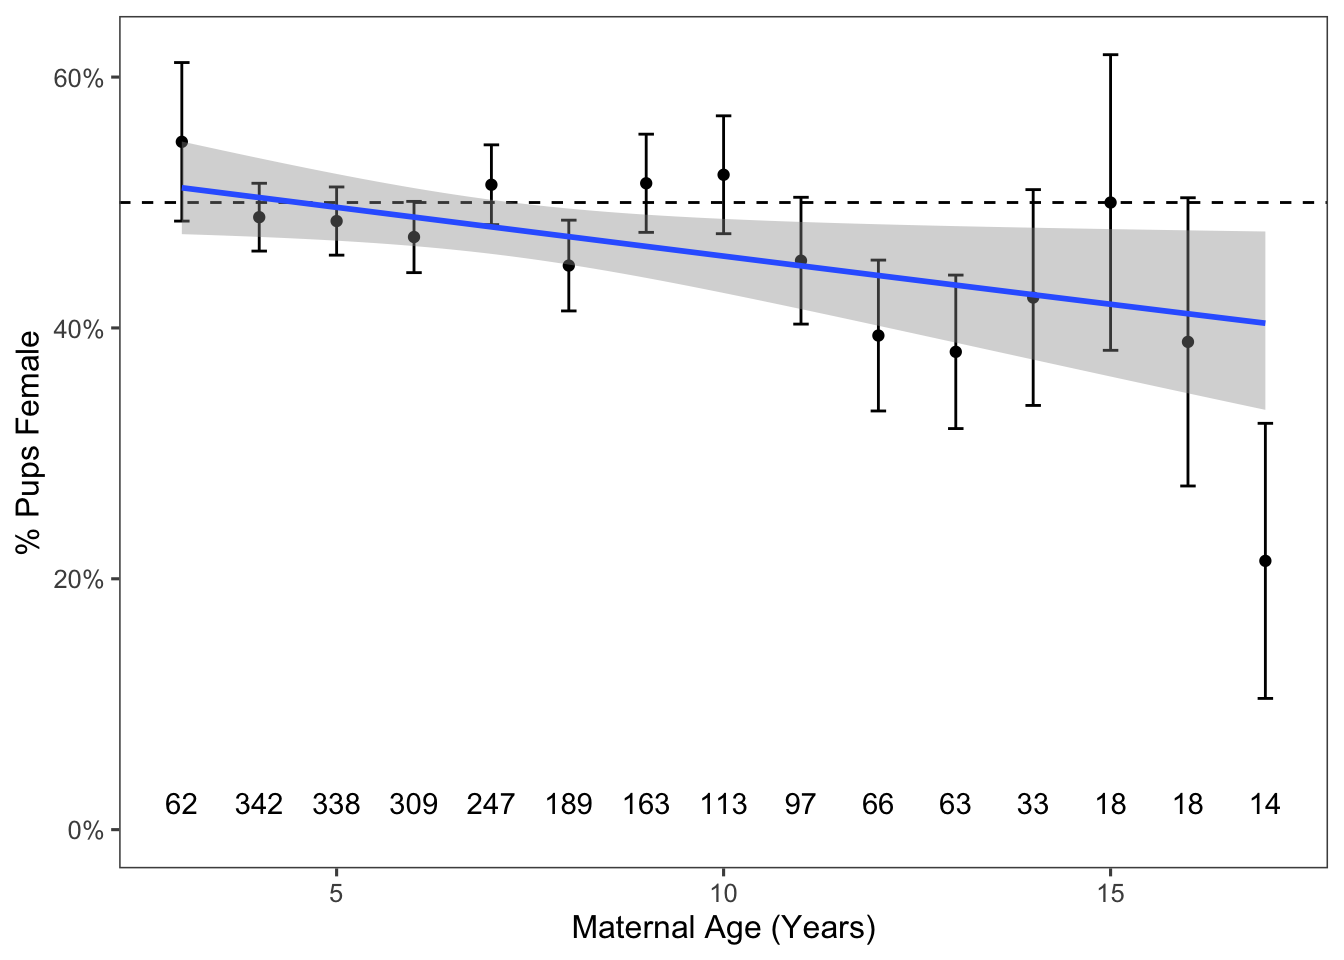
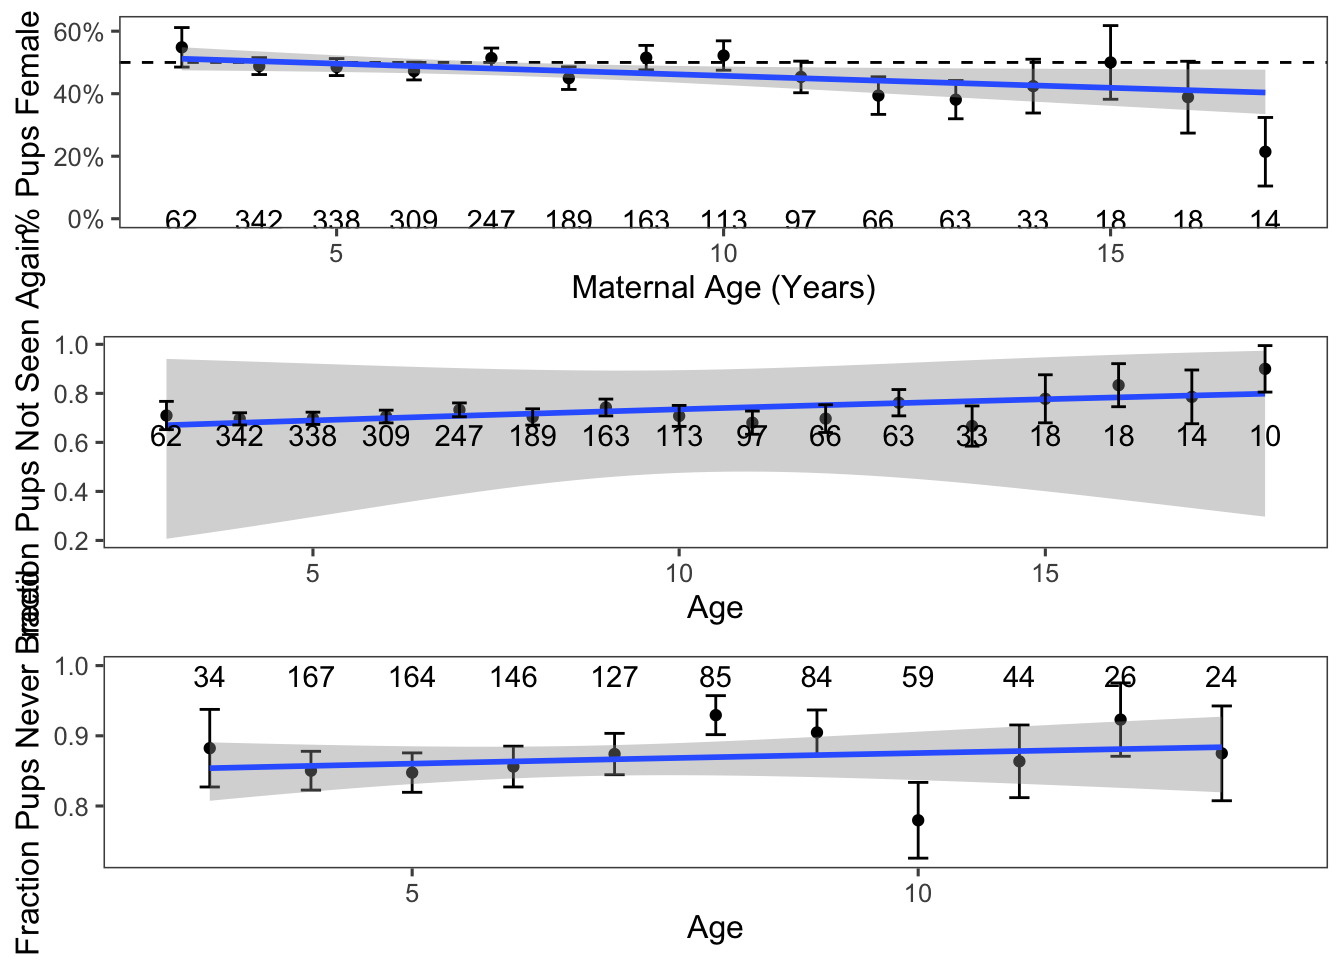
Added two more reproductive success figures

diff --git a/paper/paper.html b/paper/paper.html
@@ -88,17 +88,30 @@ div.csl-indent {
 </section>
 <section id="results" class="level2">
 <h2 class="anchored" data-anchor-id="results">Results</h2>
-<p>Pup sex shifted towards males as maternal age increased (<a href="#fig-repro_age">Figure&nbsp;1</a>).</p>
+<p>As maternal age increases, pup sex skews slightly towards males. Pup survival and recruitment are not significantly affected by maternal age (<a href="#fig-repro_age">Figure&nbsp;1</a>).</p>
 <div class="cell">
+<div class="cell-output cell-output-stderr">
+<pre><code>Warning in eval(family$initialize): non-integer #successes in a binomial glm!</code></pre>
+</div>
+<div class="cell-output cell-output-stderr">
+<pre><code>Warning: Removed 2 rows containing non-finite values (`stat_smooth()`).</code></pre>
+</div>
+<div class="cell-output cell-output-stderr">
+<pre><code>Warning: Removed 2 rows containing missing values (`geom_point()`).</code></pre>
+</div>
+<div class="cell-output cell-output-stderr">
+<pre><code>Warning: Removed 2 rows containing missing values (`geom_text()`).</code></pre>
+</div>
 <div class="cell-output-display">
 <div id="fig-repro_age" class="quarto-figure quarto-figure-center anchored">
 <figure class="figure">
 <p><img src="paper_files/figure-html/fig-repro_age-1.png" class="img-fluid figure-img" width="672"></p>
-<figcaption class="figure-caption">Figure&nbsp;1: Pup sex shifted towards males with increasing maternal age.</figcaption>
+<figcaption class="figure-caption">Figure&nbsp;1: <strong>?(caption)</strong></figcaption>
 </figure>
 </div>
 </div>
 </div>
+<p>Pup survival</p>
 </section>
 <section id="discussion" class="level2">
 <h2 class="anchored" data-anchor-id="discussion">Discussion</h2>
